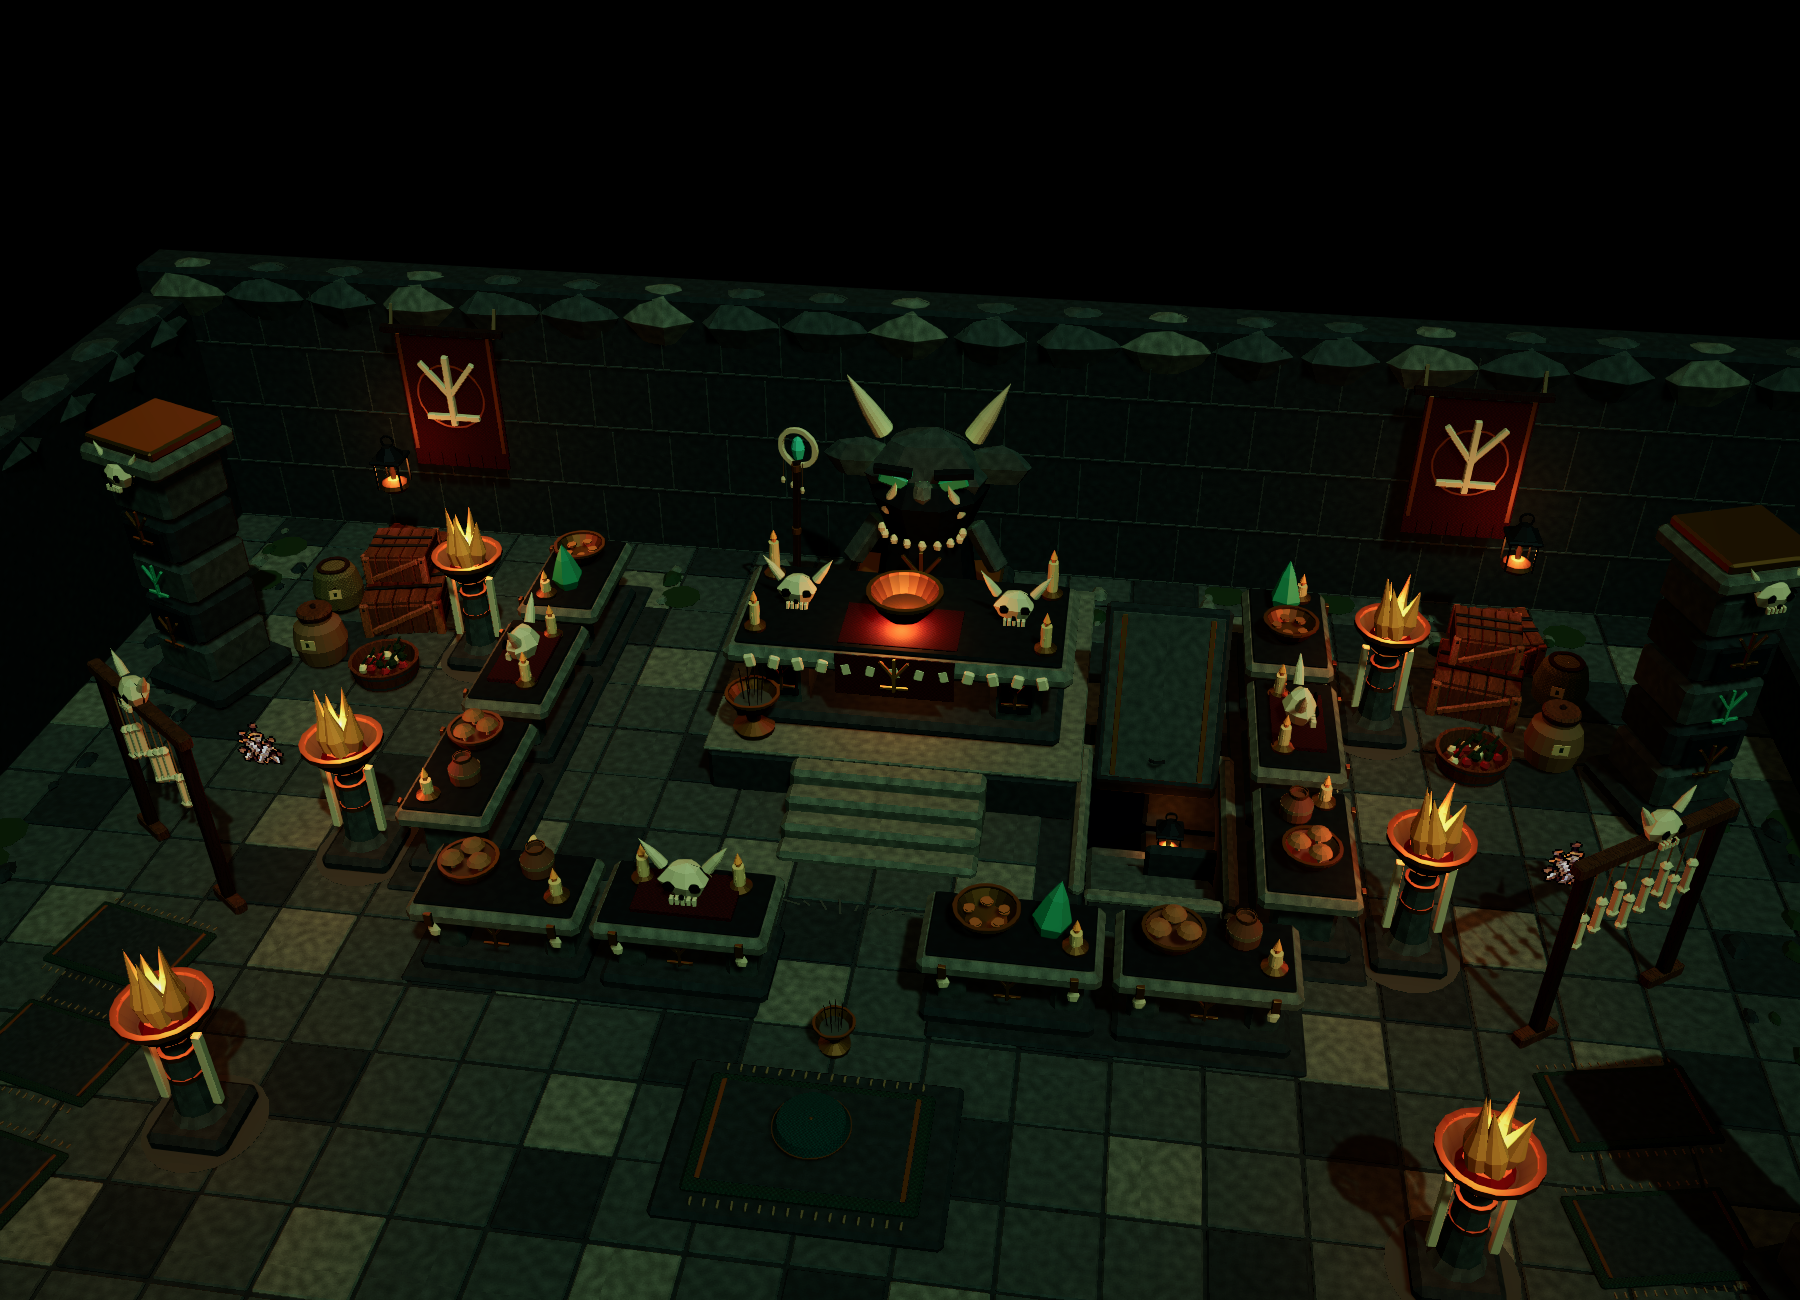
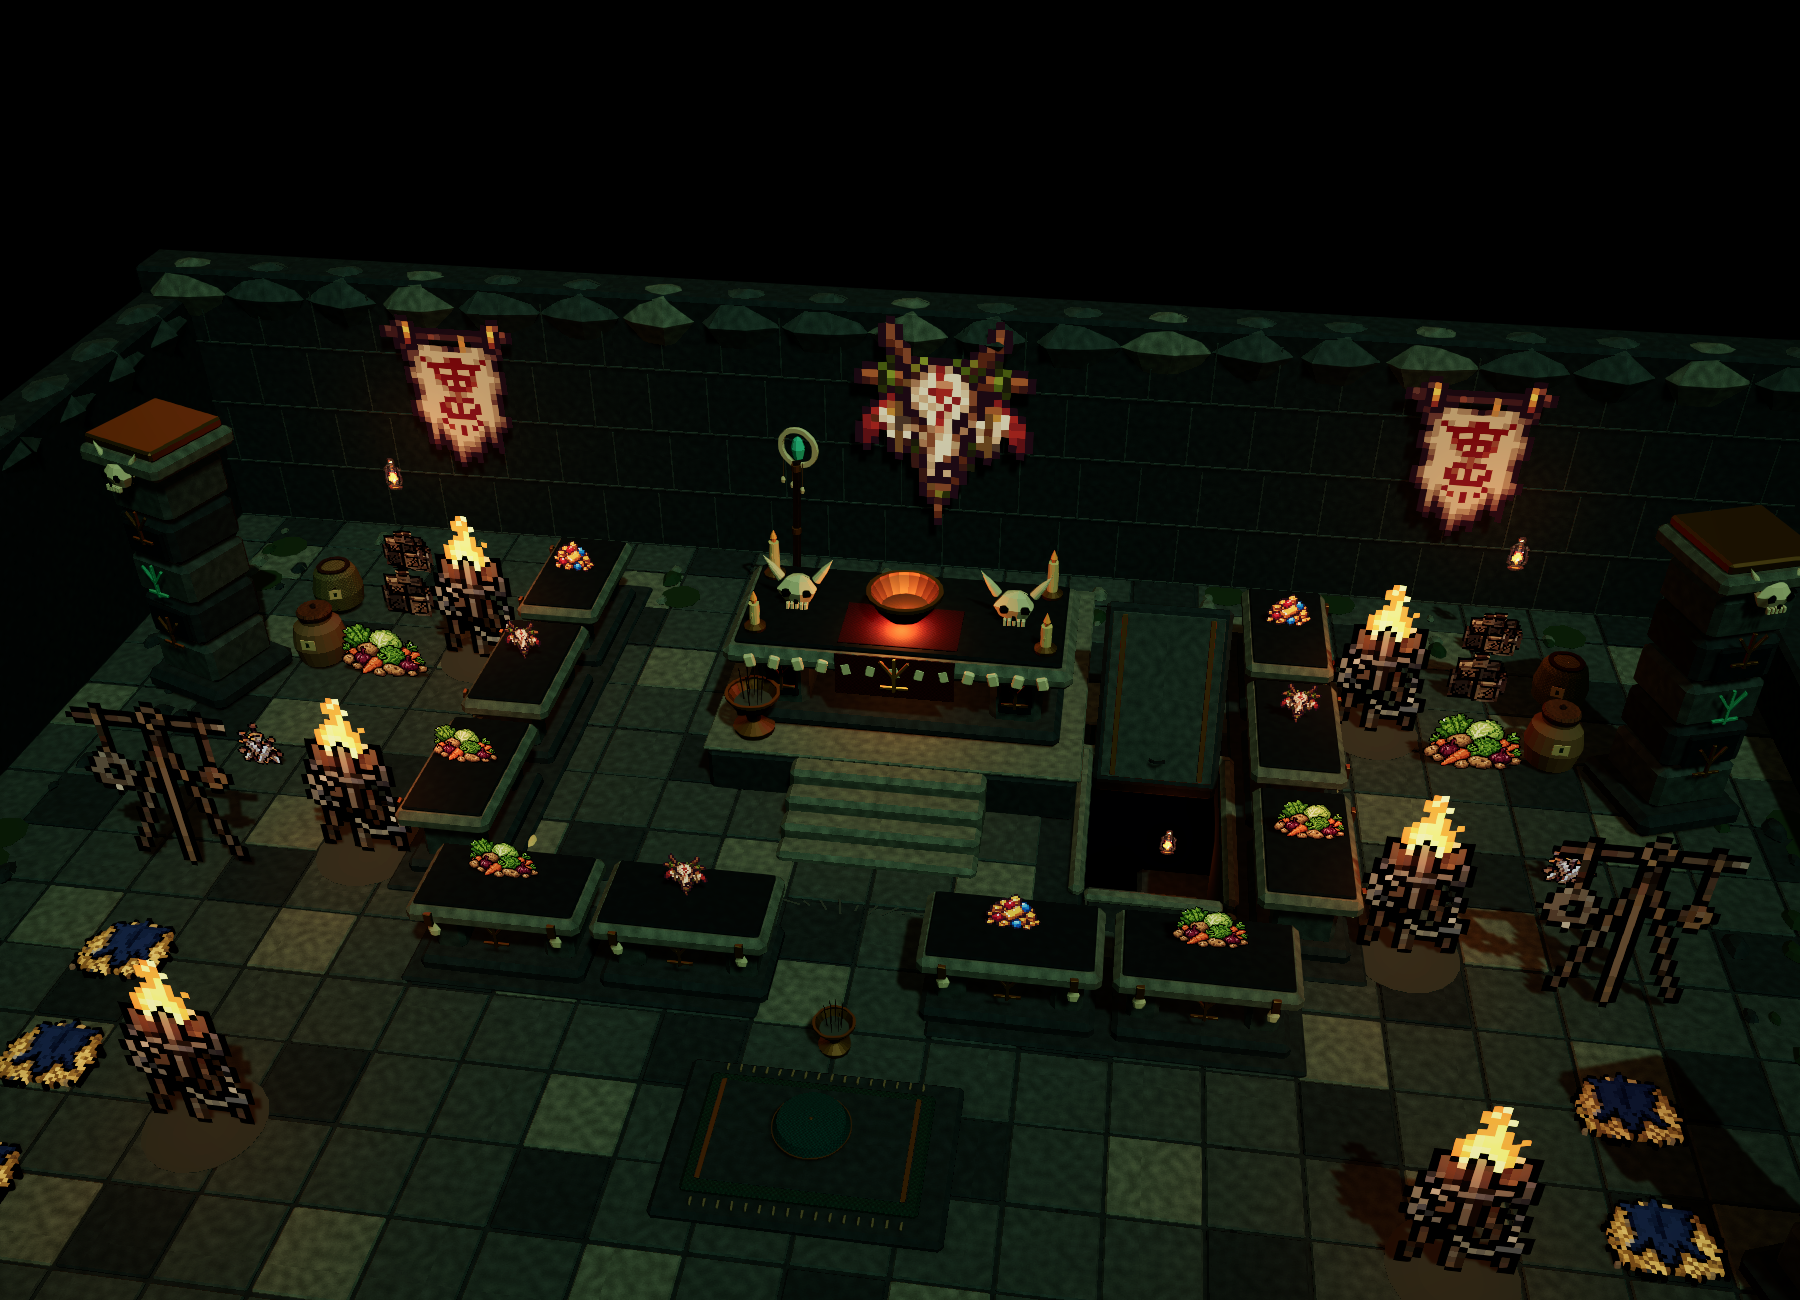
docs: refresh ritual hall pixel prop previews

diff --git a/docs/goblin-ritual-hall-demo.md b/docs/goblin-ritual-hall-demo.md
@@ -14,15 +14,15 @@
 
 内部约 26 × 26 世界单位，XZ 为地面，Y 为高度，整房 prefab 原点是地面中心。以新版 `CaveHD2DLocal.unity` 的祭祀大厅区域和用户提供的两张参考图为依据，先制作方形模块供独立预览；正式融合时再微调地形、房间边界、入口位置和高差。
 
-- 北侧祭坛：四级登台石阶、厚石祭台、骨饰与符文嵌条、暗红垂布、贡品碗、蜡烛及带獠牙、骨角的哥布林先祖雕像。
-- 围绕祭坛的贡品台：十段实体石台组成 U 形围台，左右各三段、前方四段，中央留口通向祭坛。贡品分为蘑菇根茎与陶罐、兽骨与蜡烛、玉石与金币三组；贡品与石台分别保存为 prefab，方便替换。
+- 北侧祭坛：四级登台石阶、厚石祭台、骨饰与符文嵌条、暗红垂布、贡品碗、蜡烛及中央墙面的 HD-2D 兽骨图腾。
+- 围绕祭坛的贡品台：十段实体石台组成 U 形围台，左右各三段、前方四段，中央留口通向祭坛。贡品分为像素蔬菜、兽骨图腾、金币宝石三组；贡品与石台分别保存为 prefab，方便替换。
 - 长老跪拜：围台正前方的灰色石席与灰绿编织跪拜垫、坐垫和香炉；从南入口到跪拜席的暗红旧织毯标明仪式中轴。
-- 两列火炬：左右各五个独立石座骨饰火炬，保持参考图的排列关系；入口、供品储藏与暗道补充油灯和墙火盆。
+- 两列火炬：左右各五个素材库骨制 HD-2D 火架，保持参考图的排列关系；入口、供品储藏与暗道补充像素铁提灯和石座壁炬。
 - 暗道入口：在祭坛东侧与贡品台之间留出约 1.8 × 2.8 的真实地面开口，补充八级下行石阶、石衬壁、半开的镶条石盖、拉环与滑动痕迹，底部暖色微光引向东侧地下通道。`FutureConnection_ToElderRoom_UnderfloorEast` 标出之后连接长老私室的预留点。
-- 仪式陈设：六根刻符文石柱、两幅先祖符号垂旗、仪式鼓、悬挂兽骨铃架、两侧候拜垫与骨堆；后侧放供品箱垛、粮袋、蘑菇木盆和陶罐，入口两侧放药瓶、卷轴、储物箱与燃料。
+- 仪式陈设：六根刻符文石柱、两幅素材库 HD-2D 符文旗、仪式鼓、像素仪式挂架、两侧平放的像素兽皮草席与骨堆；后侧放供品箱垛、粮袋、蘑菇木盆和陶罐，入口两侧放药瓶、卷轴、储物箱与燃料。
 - 使用痕迹：墙根碎石与苔藓、火炬座烧灰、祭坛附近蜡滴和磨损石板填充边缘，中央保持宽阔仪式路线。
 
-火光采用暖橙色，低强度玉石光强调先祖雕像；冷灰绿环境反射光维持洞穴层次。南侧及东侧使用低切面墙，便于俯视和新版地图的低俯角镜头阅读。展示相机、补光与全局后处理单独放在场景中，不包含在整房模块中。
+火光采用暖橙色，低强度绿色仪式光强调中央兽骨图腾；冷灰绿环境反射光维持洞穴层次。南侧及东侧使用低切面墙，便于俯视和新版地图的低俯角镜头阅读。展示相机、补光与全局后处理单独放在场景中，不包含在整房模块中。
 
 ## 资源位置
 
@@ -48,3 +48,14 @@
 低俯角预览采用新版地图当前启用的 Cinemachine 设置：12.09° 俯角、34° FOV、24.6 距离。相机焦点为大厅内部局部区域；全景相机只用于房间模块展示。暗道到长老私室的真实长度、高差及通行净高需要在正式融合时结合地形调整。
 
 2026-10-13：已通过 Unity C# 编译、场景和整房 prefab 保存及重新载入、模型与材质引用检查、十处火炬和十段贡品台数量检查，以及全景、祭坛、暗道和新版地图低俯角的实际相机渲染。最终确认 20 处局部光源；暗道射线命中下行石阶而非地面或横穿的侧墙。根据首版预览修正了通道侧墙穿过石阶的问题、加深下行通道并略微提亮环境补光。尚未进行玩家通行、仪式交互、跨区连接或整包构建验证。
+
+## HD-2D 素材替换（2026-10-13）
+
+当前场景已将 49 处陈设换为项目已有像素素材：10 个骨制火架、2 幅符文旗、2 个石座壁炬、1 个中央兽骨图腾、2 个仪式挂架、10 组贡品、2 个入口骨饰、6 张侧边兽皮草席、2 处供品蔬菜、6 处箱垛、1 个木桶和 5 盏铁提灯。祭台、贡品石台、灰色长老跪拜席、符文石柱、仪式鼓与暗道结构继续使用实体网格。
+
+- 火架、旗帜、壁炬、兽骨图腾、挂架、蔬菜与草席直接引用现有 `Lighting`、`TotemsBones`、`Kitchen`、`Camp` HD-2D prefab。
+- 箱垛、木桶、提灯与金币宝石原图已有但尚无适合的可放置包装，因此新增 `RitualHall/{supplies_crate_hd2d,offering_barrel_hd2d,iron_oil_lantern_hd2d,tribute_treasure_hoard_hd2d}.prefab`。它们复用原始 PNG，不复制或修改原图；箱桶保留八方向帧选择，沿用 `HybridProp` 和 `HD2D Pixel Prop` 的点采样、透明裁切、受光与深度遮挡。
+- 像素物件固定朝向；墙旗和中央图腾面朝大厅，壁炬贴西墙，侧边草席旋转平放。火炬实例缩小碰撞占位，避免侵占仪式路线。
+- 原先制作的模型仍保留在素材目录，可用作后续备选。场景及整房 prefab 已保存替换结果，运行时不执行替换；离线 `ApplyHD2DLibrary` 仅用于明确的编辑操作。
+
+已通过 Unity 编译、保存后重新载入、10 个像素火架与 2 幅像素符文旗的引用检查、20 处局部光源及暗道开口检查，并复核全景、新地图低俯角与暗道的实际渲染。当前预览图已更新为替换后的版本。未新增玩法或执行玩家通行、整包构建测试。

diff --git a/Assets/Art/README.md b/Assets/Art/README.md
@@ -71,5 +71,6 @@
 
 - 原创祭台、先祖雕像、贡品台模块、三组贡品、火炬、符文石柱、垂旗、仪式鼓、香炉、跪拜垫和骨铃架共 13 件实体道具，网格、材质和纹理位于 `Art/{Models,Materials,Textures}/Props/RitualHall`。
 - 整房模块为 `Assets/Prefabs/Props/RitualHall/goblin_ritual_hall_room.prefab`，独立场景为 `Assets/Scenes/Props/GoblinRitualHallDemo.unity`；其余箱桶、油灯、坐垫、供品食材、药瓶与兽骨直接复用素材库。
+- 当前 demo 的火炬、旗帜、壁炬、图腾、仪式挂架、贡品、侧边草席及箱桶提灯共 49 处实例已换为项目像素素材；原制作模型保留为备选。箱桶、铁提灯与金币宝石复用原图封装为 `RitualHall/*_hd2d.prefab`。
 - 按用户草图保留北侧祭坛、U 形贡品台、灰色长老跪拜席和左右各五处火炬；祭坛与贡品台之间的真实开口、下行石阶、半开石盖和地下通道预留表达连接长老私室的暗道。
 - 所有模型与摆放均已保存，运行时不重建。参考图在 `Art/References/RitualHall`，详见 [祭祀大厅 demo 说明](../../docs/goblin-ritual-hall-demo.md)。
